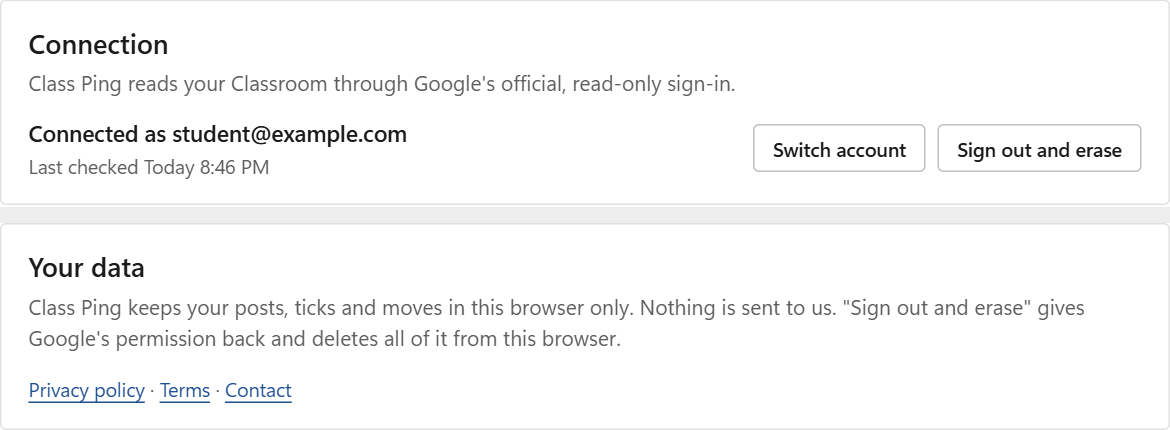
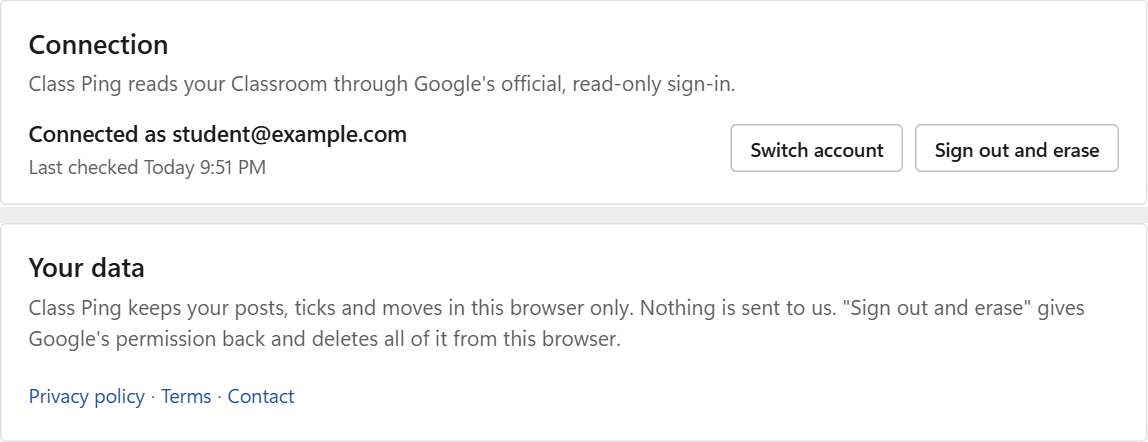
Privacy page pictures follow the chosen look (all seven themes)

diff --git a/privacy.html b/privacy.html
@@ -17,7 +17,7 @@
 <link rel="icon" type="image/png" sizes="192x192" href="/logo.png">
   <link rel="apple-touch-icon" href="apple-touch-icon.png?v=6">
   <link rel="stylesheet" href="style.css?v=16">
-  <script src="site.js?v=9"></script>
+  <script src="site.js?v=10"></script>
 </head>
 <body>
 
@@ -107,7 +107,7 @@
   <h2 id="google-sign-in">4. How Class Ping connects to Google</h2>
   <p>You choose one of two ways the first time you open Class Ping, and you can switch at any time in Settings.</p>
   <figure class="narrow">
-    <img src="img/proof-desktop-connect.png" width="660" height="466" loading="lazy" alt="The Windows app's first screen: two choices, Sign in with Google and Full features. Neither has a password box.">
+    <img src="img/proof-desktop-connect.png?v=2" data-proof="img/proof-desktop-connect" width="660" height="466" loading="lazy" alt="The Windows app's first screen: two choices, Sign in with Google and Full features. Neither has a password box.">
     <figcaption><strong>The first screen of the Windows app.</strong> Neither choice has a password box.</figcaption>
   </figure>
   <h3>Sign in with Google (the default)</h3>
@@ -154,7 +154,7 @@
     <li><strong>Erasing it.</strong> In the web version's Settings, "Sign out and erase" gives Google's permission back and deletes everything it saved in your browser. Clearing the site's data in your browser does the same. You can also remove access at <a href="https://myaccount.google.com/permissions">myaccount.google.com/permissions</a>.</li>
   </ul>
   <figure class="narrow">
-    <img src="img/proof-web-signin.png" width="720" height="873" loading="lazy" alt="The web version's sign-in screen: one Sign in with Google button and no password box.">
+    <img src="img/proof-web-signin.png?v=2" data-proof="img/proof-web-signin" width="722" height="927" loading="lazy" alt="The web version's sign-in screen: one Sign in with Google button and no password box.">
     <figcaption><strong>The web version's sign-in screen.</strong> One Google button, and no password box.</figcaption>
   </figure>
   <p>The same promises apply as in section 4: Class Ping's use and transfer of information received from Google APIs adheres to the <a href="https://developers.google.com/terms/api-services-user-data-policy">Google API Services User Data Policy</a>, including the Limited Use requirements. We never sell Google user data, never use it for advertising, and never use it to decide anyone's credit or lending. Section 10 on children and section 11 on schools apply to the web version as well.</p>
@@ -191,11 +191,11 @@
     <li><strong>Delete feedback</strong>: email <a href="mailto:classpingsupport@gmail.com">classpingsupport@gmail.com</a>.</li>
   </ul>
   <figure>
-    <img src="img/proof-desktop-settings.png" width="1150" height="325" loading="lazy" alt="Windows app Settings, Connection: connected as a made-up address, with Switch account and Sign out buttons.">
+    <img src="img/proof-desktop-settings.png?v=2" data-proof="img/proof-desktop-settings" width="1152" height="288" loading="lazy" alt="Windows app Settings, Connection: connected as a made-up address, with Switch account and Sign out buttons.">
     <figcaption><strong>Windows app, Settings.</strong> Sign out gives Google's permission back and forgets it on this PC. You can also remove Class Ping at <a href="https://myaccount.google.com/permissions">myaccount.google.com/permissions</a>.</figcaption>
   </figure>
   <figure>
-    <img src="img/proof-web-settings.png" width="1170" height="430" loading="lazy" alt="Web version Settings: connected as a made-up address, with a Sign out and erase button.">
+    <img src="img/proof-web-settings.png?v=2" data-proof="img/proof-web-settings" width="1148" height="442" loading="lazy" alt="Web version Settings: connected as a made-up address, with a Sign out and erase button.">
     <figcaption><strong>Web version, Settings.</strong> Sign out and erase gives Google's permission back and deletes everything from this browser.</figcaption>
   </figure>
 

diff --git a/site.js b/site.js
@@ -45,7 +45,27 @@
     else root.setAttribute("data-theme", prefs.theme);
     root.setAttribute("data-text", prefs.text);
     root.setAttribute("data-links", prefs.links);
+    proofs(prefs.theme);
   }
+
+  // The pictures of the app on the privacy page follow the chosen look: img[data-proof="img/name"]
+  // has name.png for Light and name-<look>.png for the others. "Match my device" uses Graphite in
+  // the dark. If a picture is missing the Light one stays, and without scripts it is the one shown.
+  var dark = window.matchMedia ? window.matchMedia("(prefers-color-scheme: dark)") : null;
+  function proofs(theme) {
+    if (theme === "system") theme = dark && dark.matches ? "graphite" : "light";
+    var pics = document.querySelectorAll("img[data-proof]");
+    for (var i = 0; i < pics.length; i++) {
+      var pic = pics[i], base = pic.getAttribute("data-proof");
+      var want = base + (theme === "light" ? "" : "-" + theme) + ".png?v=2";
+      if (pic.getAttribute("data-shown") === want) continue;
+      pic.setAttribute("data-shown", want);
+      pic.onerror = function () { this.onerror = null; this.src = this.getAttribute("data-proof") + ".png?v=2"; };
+      pic.src = want;
+    }
+  }
+  document.addEventListener("DOMContentLoaded", function () { proofs(read().theme); });
+  if (dark && dark.addEventListener) dark.addEventListener("change", function () { proofs(read().theme); });
 
   // Before the page draws, so it never flashes the wrong colours.
   root.classList.add("js");

diff --git a/app/index.html b/app/index.html
@@ -34,7 +34,7 @@
   <link rel="manifest" href="manifest.webmanifest">
   <link rel="stylesheet" href="../style.css?v=16">
   <link rel="stylesheet" href="app.css?v=14">
-  <script src="../site.js?v=9"></script>
+  <script src="../site.js?v=10"></script>
   <script type="module" src="app.js?v=15"></script>
 </head>
 <body>

diff --git a/download.html b/download.html
@@ -17,7 +17,7 @@
 <link rel="icon" type="image/png" sizes="192x192" href="/logo.png">
   <link rel="apple-touch-icon" href="apple-touch-icon.png?v=6">
   <link rel="stylesheet" href="style.css?v=16">
-  <script src="site.js?v=9"></script>
+  <script src="site.js?v=10"></script>
 </head>
 <body>
 

diff --git a/index.html b/index.html
@@ -34,7 +34,7 @@
 <link rel="icon" type="image/png" sizes="192x192" href="/logo.png">
   <link rel="apple-touch-icon" href="apple-touch-icon.png?v=6">
   <link rel="stylesheet" href="style.css?v=16">
-  <script src="site.js?v=9"></script>
+  <script src="site.js?v=10"></script>
 </head>
 <body>
 

diff --git a/settings.html b/settings.html
@@ -18,7 +18,7 @@
 <link rel="icon" type="image/png" sizes="192x192" href="/logo.png">
   <link rel="apple-touch-icon" href="apple-touch-icon.png?v=6">
   <link rel="stylesheet" href="style.css?v=16">
-  <script src="site.js?v=9"></script>
+  <script src="site.js?v=10"></script>
 </head>
 <body>
 

diff --git a/support.html b/support.html
@@ -17,7 +17,7 @@
 <link rel="icon" type="image/png" sizes="192x192" href="/logo.png">
   <link rel="apple-touch-icon" href="apple-touch-icon.png?v=6">
   <link rel="stylesheet" href="style.css?v=16">
-  <script src="site.js?v=9"></script>
+  <script src="site.js?v=10"></script>
 </head>
 <body>
 

diff --git a/terms.html b/terms.html
@@ -17,7 +17,7 @@
 <link rel="icon" type="image/png" sizes="192x192" href="/logo.png">
   <link rel="apple-touch-icon" href="apple-touch-icon.png?v=6">
   <link rel="stylesheet" href="style.css?v=16">
-  <script src="site.js?v=9"></script>
+  <script src="site.js?v=10"></script>
 </head>
 <body>
 
